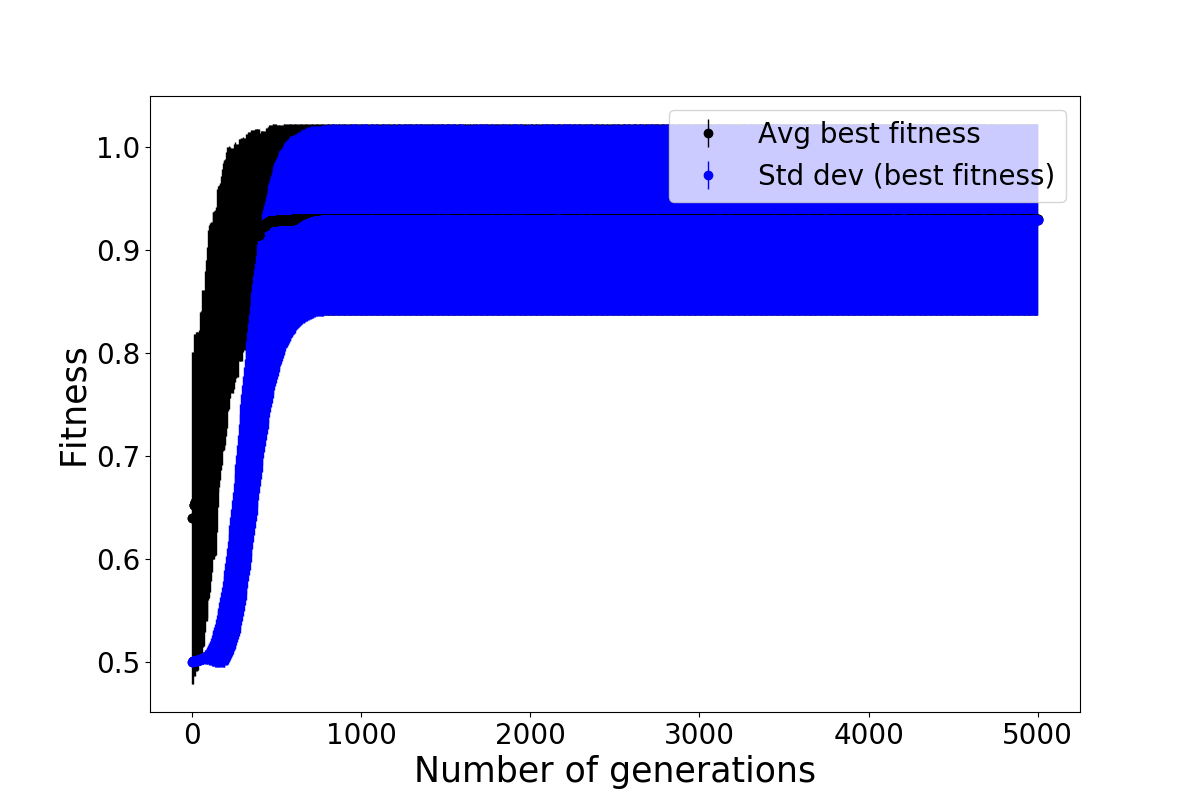
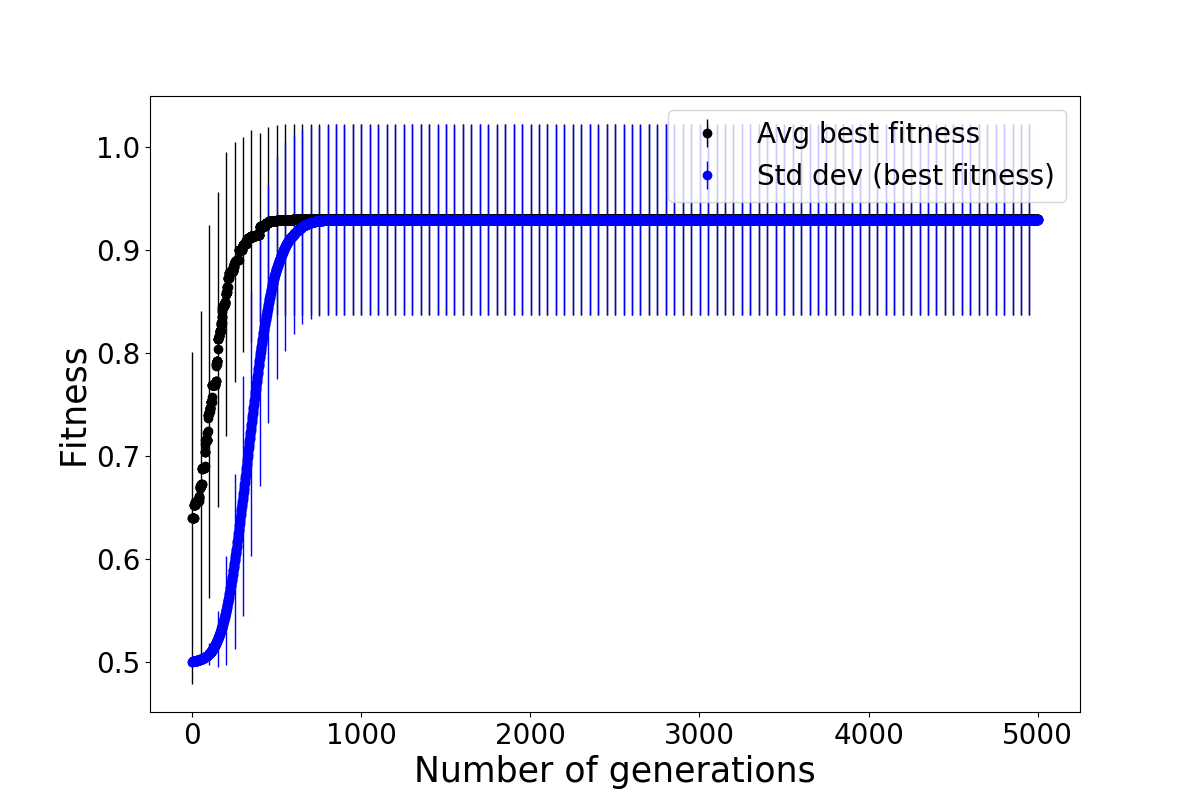
Updated plot styles

Changed region(s): [[0.1542, 0.1562, 0.8942, 0.8438], [0.6167, 0.9375, 0.6783, 0.9688], [0.555, 0.9375, 0.5858, 0.9688]]

diff --git a/codes/analyze.py b/codes/analyze.py
@@ -14,7 +14,7 @@ def plot(x, y, legends, title='', x_label='', y_label='', file_name='plot', erro
 
     for i in range(len(y)):
         if errorbar:
-            ax1.errorbar(x, y[i][0], yerr=y[i][1], errorevery=5, c=colors[i], fmt='o', lw=1)
+            ax1.errorbar(x, y[i][0], yerr=y[i][1], errorevery=50, c=colors[i], fmt='o', lw=1)
         else:
             ax1.plot(x, y[i][0], c=colors[i], ls=line_styles[0], lw=2)
 
@@ -127,7 +127,7 @@ def analyze(file_name, best_fitness = None):
 # -----------------------------------------------
 results_dir = 'results'
 
-
+'''
 ops_probs_file_paths = glob.glob('{}/*operator_probabilities.csv'.format(results_dir))
 
 for ops_probs_file_path in ops_probs_file_paths:
@@ -151,6 +151,7 @@ for ops_probs_file_path in ops_probs_file_paths:
     legends = sorted(data[0].keys())
     y = [[[item[optype][0] for item in data], [item[optype][1] for item in data]] for optype in legends]
     plot(x, y, legends, title='', x_label='New chromosomes', y_label='Probabilities', file_name=ops_probs_file_path[:-3], errorbar=False)
+'''
 
 # -----------------------------------------------
 # Compare results of different GAs defined by
